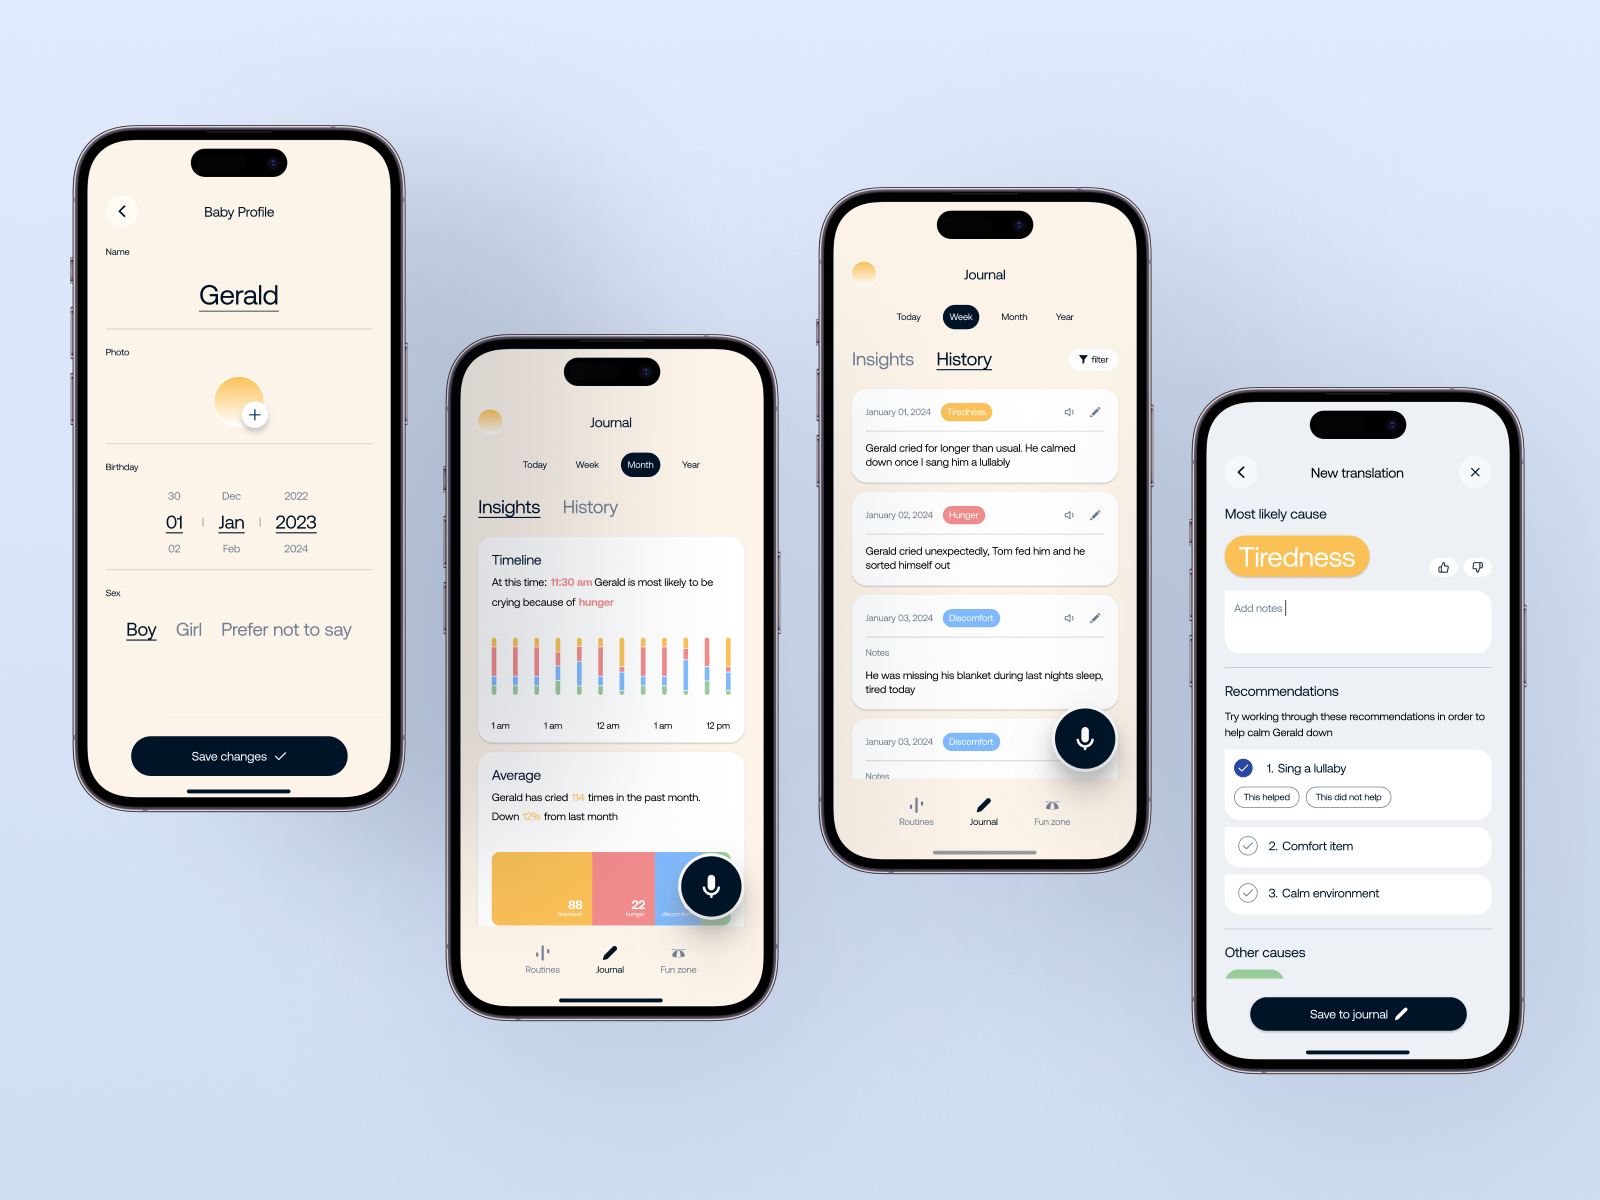
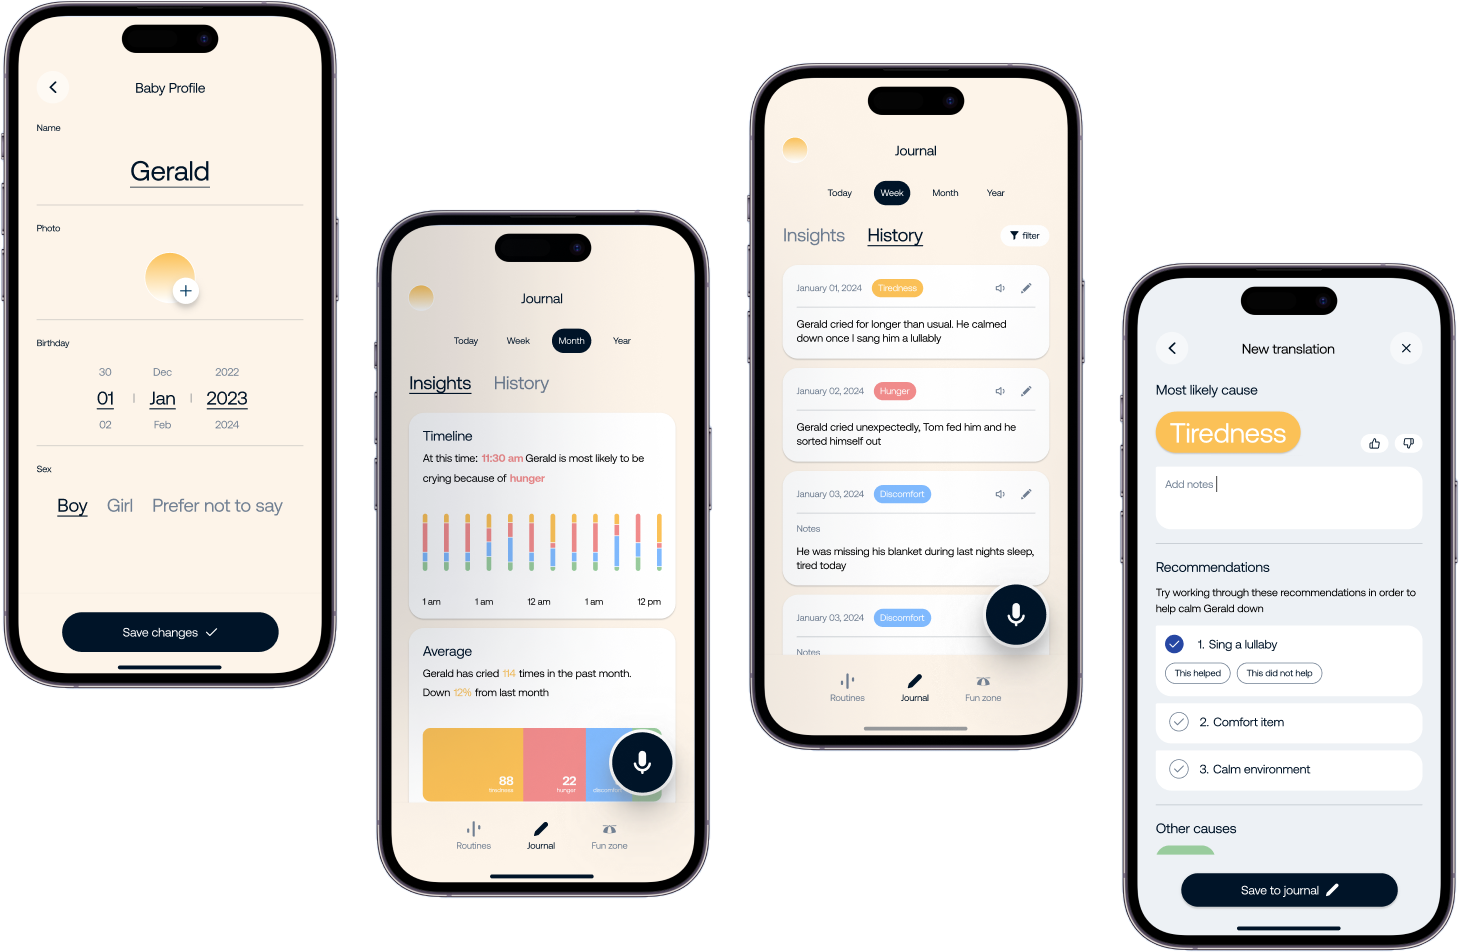
nanni: phones cut out of their backgrounds so they float on the card; captions as live text
Claude-Session: https://claude.ai/code/session_01YCi21RigoaphgUyUiuX5f9

diff --git a/js/projects.js b/js/projects.js
@@ -107,7 +107,7 @@
             p("quote", "&quot;I often miss a babies cry because it takes multiple taps to get to the recording screen.&quot;") +
             p("quote", "&quot;Routines is confusing. I forget where to go to see all my recordings.&quot;") +
             p("quote", "&quot;Users are not submitting feedback from the feedback screen, 90% of the time it&rsquo;s from the results screen.&quot;")
-          ) + media(fig(A + "nanniAssets/nanni_image_10.png"))),
+          ) + media(fig(A + "nanniAssets/nanni_image_10.png", "Previous navigation menu"))),
         pg("two",
           lab("Iterations") + text(
             p("eyebrow", "The navigation menu went through several iterations, with intention to minimize actions, and prioritize recording a newborns cry.") +
@@ -138,8 +138,8 @@
           lab("History") + text(
             p("lead", "Journal : History") +
             p("body", "A filterable history of all recorded cries or events. Visible by other caregivers for posterity and support.")
-          ) + media(fig(A + "nanniAssets/nanni_image_06.png"), fig(A + "nanniAssets/nanni_image_07.png"), fig(A + "nanniAssets/nanni_image_08.png"))),
-        pg("media", lab("Screens") + media(fig(A + "nanniAssets/nanni_image_09.png"))),
+          ) + media(fig(A + "nanniAssets/nanni_image_06.png"), fig(A + "nanniAssets/nanni_image_07.png"), fig(A + "nanniAssets/nanni_image_08.png", "Previous screens"))),
+        pg("media", lab("Screens") + media(fig(A + "nanniAssets/nanni_image_09.png", "Redesigned screens"))),
         pg("one",
           lab("Results") + text(
             p("lead", "Results") +

diff --git a/index.html b/index.html
@@ -11,7 +11,7 @@
     <link rel="icon" type="image/png" sizes="16x16" href="assets/favicon-16x16.png" />
     <link rel="shortcut icon" href="assets/favicon.ico" />
     <link rel="apple-touch-icon" href="assets/apple-touch-icon.png" />
-    <link rel="stylesheet" href="css/redesign.css?v=38" />
+    <link rel="stylesheet" href="css/redesign.css?v=39" />
     <link rel="stylesheet" href="css/hostgrotesk.css">
     <link rel="preconnect" href="https://fonts.googleapis.com"><link rel="preconnect" href="https://fonts.gstatic.com" crossorigin>
     <link rel="stylesheet" href="https://fonts.googleapis.com/css2?family=Figtree:wght@600;700&family=Crimson+Pro:wght@600&display=swap">

diff --git a/css/redesign.css b/css/redesign.css
@@ -2527,3 +2527,6 @@ html:has(.viewHead.floating:hover, .viewClose.floating:hover, .projNav:hover) #m
 
 /* no project list while a project view is open (it stays in the page, so it can come back on close; the prev / next chevrons switch projects) */
 html.view-open #projectList { opacity: 0 !important; pointer-events: none !important; }
+
+/* Nanni's phones now float on the card (their backgrounds are cut out), so the captions that used to be inside the pictures are text under them */
+#view-nanni .pgMedia figcaption { margin-top: 1.2cqw; text-align: center; font-size: clamp(14px, 1.3cqw, 22px); font-weight: 500; color: var(--ink); }
